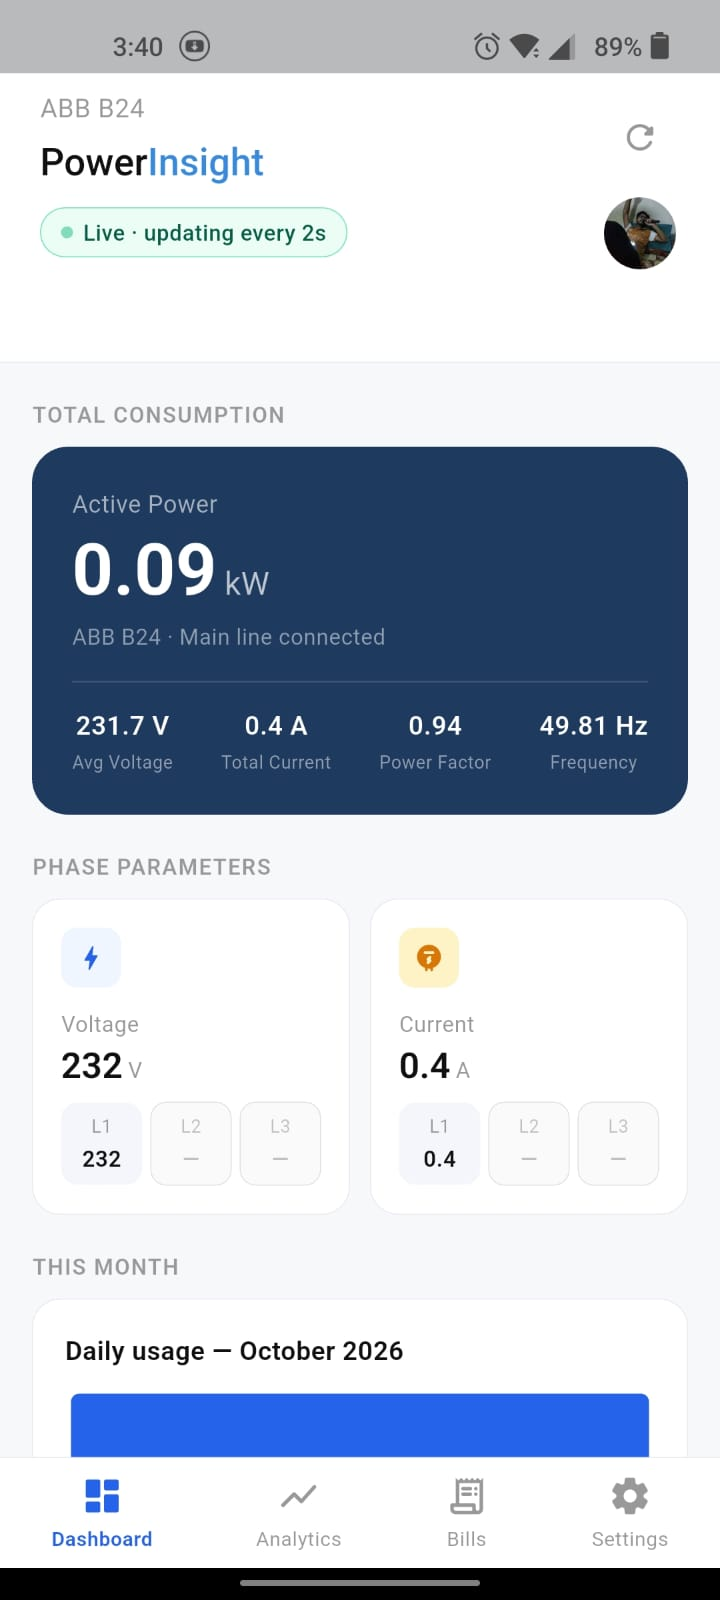
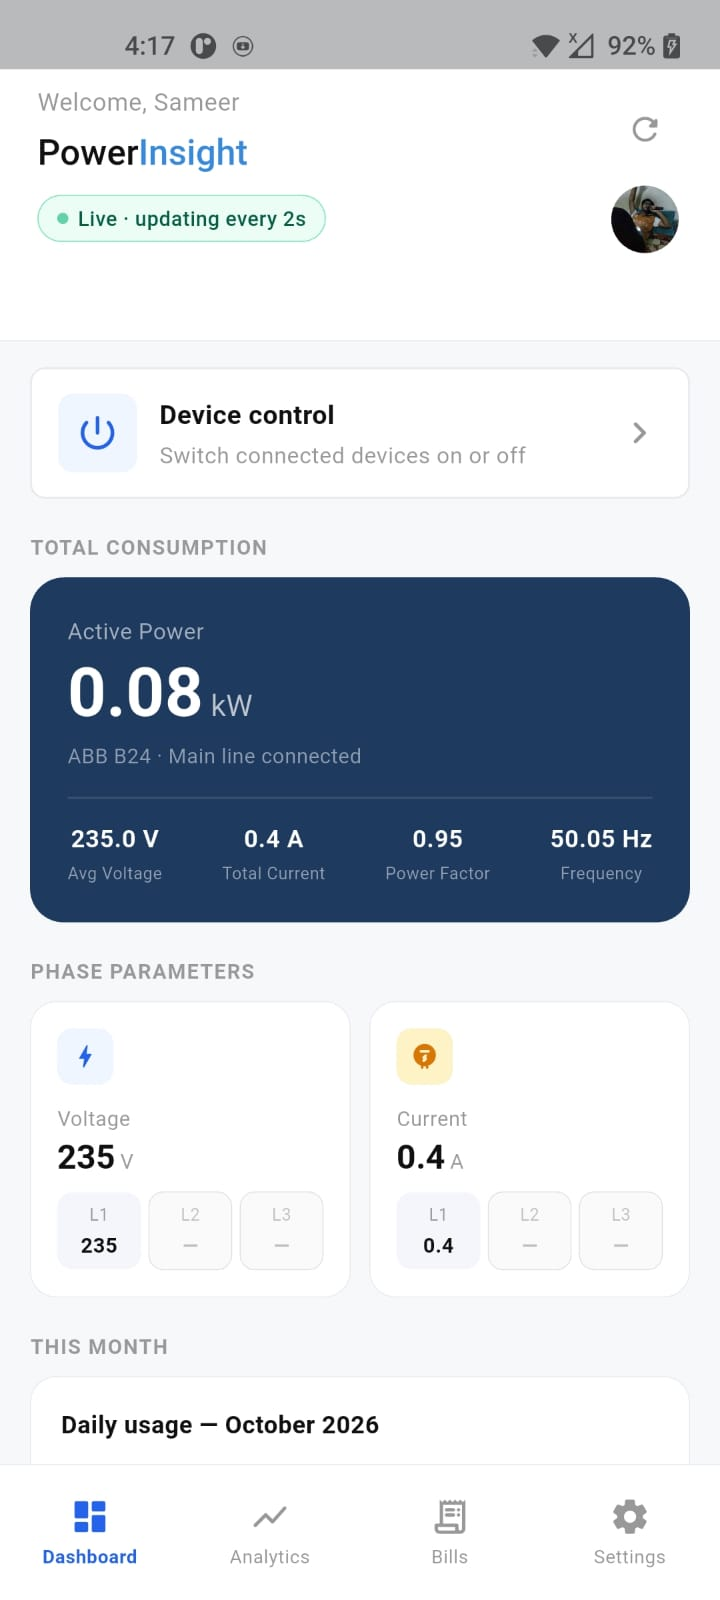
all_okay_done

diff --git a/test/widget_test.dart b/test/widget_test.dart
@@ -144,6 +144,24 @@ void main() {
     expect(hourly[2].kwh, closeTo(0.05, 0.0001));
   });
 
+  test('Hourly parser ignores a one-reading cumulative drop glitch', () {
+    final hourly = FirebaseHistoryService.parseHourlyUsage({
+      '2026-10-01': {'h1': 0.23},
+      '2026-10-02': {'h0': 0.82, 'h1': 0.85},
+      '2026-10-03': {'h0': 1.29, 'h1': 0.0, 'h2': 1.33},
+    });
+
+    expect(hourly.length, 4);
+    expect(hourly[0].hourStart, DateTime(2026, 10, 2, 0));
+    expect(hourly[0].kwh, closeTo(0.59, 0.0001));
+    expect(hourly[1].hourStart, DateTime(2026, 10, 2, 1));
+    expect(hourly[1].kwh, closeTo(0.03, 0.0001));
+    expect(hourly[2].hourStart, DateTime(2026, 10, 3, 0));
+    expect(hourly[2].kwh, closeTo(0.44, 0.0001));
+    expect(hourly[3].hourStart, DateTime(2026, 10, 3, 2));
+    expect(hourly[3].kwh, closeTo(0.04, 0.0001));
+  });
+
   // ── K-Electric: asal bills (Sanc Load 4 kW, tariff A1-R) ────────────────
   // fcaUnits = bill par FCA line ke saamne likhe units (2 mahine pehle ke).
   group('KE calculator matches real K-Electric bills', () {

diff --git a/lib/services/firebase_history_service.dart b/lib/services/firebase_history_service.dart
@@ -133,11 +133,21 @@ class FirebaseHistoryService {
     // Cumulative → per-hour kWh (meter reset ho to delta 0 rakhte hain).
     entries.sort((a, b) => a.key.compareTo(b.key));
     final hourly = <HourlyUsage>[];
+    var previous = entries.first;
     for (int i = 1; i < entries.length; i++) {
-      final delta = entries[i].value - entries[i - 1].value;
+      final current = entries[i];
+      final isRecoveredDrop =
+          i + 1 < entries.length &&
+          current.value < previous.value &&
+          entries[i + 1].value >= previous.value;
+      // A one-sample dip that immediately recovers is a bad reading, not a reset.
+      if (isRecoveredDrop) continue;
+
+      final delta = current.value - previous.value;
       hourly.add(
-        HourlyUsage(hourStart: entries[i].key, kwh: delta < 0 ? 0.0 : delta),
+        HourlyUsage(hourStart: current.key, kwh: delta < 0 ? 0.0 : delta),
       );
+      previous = current;
     }
     return hourly;
   }

diff --git a/lib/controllers/analytics_controller.dart b/lib/controllers/analytics_controller.dart
@@ -1,3 +1,5 @@
+import 'dart:math' as math;
+
 import 'package:get/get.dart';
 import '../models/analytics_model.dart';
 import '../models/ke_tariff_model.dart';
@@ -339,12 +341,13 @@ class AnalyticsController extends GetxController {
     for (final slot in slots) {
       for (final c in columnKeys()) {
         final avg = cellAvgs['$c-$slot'] ?? 0.0;
+        final relativeUsage = maxCell > 0 ? avg / maxCell : 0.0;
         heatmap.add(
           HeatmapCell(
             hour: slot,
             day: _heatmapColumnLabel(c),
             dayKey: c,
-            intensity: (avg / maxCell).clamp(0.0, 1.0),
+            intensity: math.sqrt(relativeUsage).clamp(0.0, 1.0),
           ),
         );
       }

diff --git a/README.md b/README.md
@@ -1,150 +1,186 @@
-# PowerInsight ⚡
+# PowerInsight
 
-IoT-based real-time energy monitoring system for homes — **ESP32 + ABB B24 energy meter + Flutter**.
+**PowerInsight** is an IoT-based energy monitoring and appliance-control system built with an ESP32, an ABB B24 energy meter, Firebase Realtime Database, and a Flutter mobile app.
 
-PowerInsight reads live electricity data (voltage, current, power, power factor, energy) from a Modbus RTU energy meter via ESP32, publishes it to Firebase Realtime Database, and presents it in a clean Flutter app with **daily / weekly / monthly analytics**, usage trend graphs, peak-time heatmaps, and **real K-Electric bill estimation** — all in **English & Urdu (اردو)**.
+The meter sends live electrical readings to Firebase, where the app presents them as a dashboard, usage analytics, and estimated K-Electric bills. A separate relay-control path lets users send appliance commands from the app and view the state reported by the ESP32.
 
----
+## Highlights
 
-## ✨ Features
+- **Live energy monitoring:** voltage, current, active power, frequency, power factor, and cumulative energy.
+- **Day, week, and month analytics:** summary cards, consumption and cost charts, usage trends, and peak-usage heatmaps.
+- **K-Electric bill estimates:** configurable tariff profile and an itemized estimate including applicable adjustments, taxes, and fees.
+- **Appliance controls:** Firebase-backed controls for a bulb, fan, fridge, and spare relay, with requested and ESP32-reported states.
+- **Multiple meters and accounts:** sign-in, meter assignment, customer administration, and meter online status.
+- **English and Urdu:** switch the app language in-session; light and dark themes are supported.
+- **Profile and preferences:** account details, profile photo, and app settings.
 
-| Feature | Description |
+## System overview
+
+```text
+ ABB B24 energy meter
+          │ RS-485 / Modbus RTU
+          ▼
+       ESP32 ────────────────┐
+          │                 │
+          │ meter readings  │ relay commands / status
+          ▼                 ▲
+   Firebase Realtime Database
+          │                 ▲
+          │ REST API        │ REST API
+          ▼                 │
+       Flutter app ─────────┘
+       monitoring, analytics,
+       billing, and controls
+```
+
+Meter readings and device-control commands are separate data flows. For device control, the app writes the requested state to Firebase. The ESP32 polls for commands, drives its configured relay, and writes the applied state back for the app to display.
+
+## Application screens
+
+| Screen | Overview |
 |---|---|
-| 🔴 **Real-time monitoring** | Live voltage, current, power (W), frequency, power factor — refreshes every ~3s |
-| 📈 **Power trend graph** | Day view = 24-hour curve (0h–24h axis, fills hour-by-hour), Week = 7 day slots, Month = week slots (W1–W5) |
-| 🔥 **Peak hours heatmap** | Time slots (6 AM–9 PM) × Day/Week/Month — see exactly *when* you consume the most |
-| 💰 **K-Electric bill estimate** | Real KE tariff slabs (A1-R), FCA, quarterly adjustment, electricity duty, GST, MUCT, TV licence — matches actual bills |
-| 📊 **Monthly comparison** | Bill vs previous months + 5-month average |
-| 🌐 **Bilingual UI** | Full English + Urdu translation, switchable in-session |
-| 👥 **Admin panel** | Add customers, assign meters, manage users |
-| 🤖 **ML prediction** | Next-month usage forecast |
-| 🟢 **Meter online status** | Clock-skew-immune liveness detection from reading timestamps |
+| Login | Account sign-in |
+| Meter list | Assigned meters and their availability |
+| Dashboard | Live meter readings, status, and navigation |
+| Device control | Relay controls and device status |
+| Analytics — day | Hourly usage trend and daily heatmap |
+| Analytics — week | Daily usage trend and weekly heatmap |
+| Analytics — month | Monthly usage trend and peak-week heatmap |
+| Bills | Estimated bill and month comparison |
+| Tariff settings | Tariff profile and bill-adjustment inputs |
+| Settings | Language, theme, account, and app preferences |
+| Profile | User details and profile photo |
+| Admin panel | Customer and meter administration |
 
----
-
-## 🏗 Architecture
-
-```
-┌─────────────┐   Modbus RTU    ┌──────────┐    HTTPS PUT    ┌─────────────────┐
-│  ABB B24    │ ◄──────────────►│  ESP32   │ ───────────────►│  Firebase RTDB  │
-│ Energy Meter│    RS485        │ (WiFi)   │   every 2s      │  meters/meter1  │
-└─────────────┘                 └──────────┘                 └────────┬────────┘
-                                                                      │
-                                                            ┌─────────▼────────┐
-                                                            │   Flutter App    │
-                                                            │  (GetX, REST)    │
-                                                            │  Android / iOS   │
-                                                            └──────────────────┘
-```
-
-**Data flow:** Meter → (RS485/Modbus) → ESP32 → (WiFi/HTTPS) → Firebase → (REST) → App
-
----
-
-## 🔌 Hardware
-
-| Component | Details |
-|---|---|
-| **Energy meter** | ABB B24 (Modbus RTU slave, ID `10`, 19200 baud, 8E1) |
-| **Controller** | ESP32 (WiFi + dual-core) |
-| **RS485 transceiver** | DE/RE on GPIO 4, RX2 = GPIO 16, TX2 = GPIO 17 |
-| **Registers used** | Voltage `0x5B00`, Current `0x5B0C`, Power `0x5B14`, Frequency `0x5B2C`, PF `0x5B3A`, Energy `0x552C` |
-
-NTP time sync (`pool.ntp.org`, UTC+5) is used for date/hour keys.
-
----
-
-## ☁ Firebase Realtime Database structure
-
-```
-meters/
-└── meter1/
-    ├── name                      "ABB B24"
-    ├── latest/                   ← live reading (every 2s)
-    │   ├── voltage, current, power, frequency, powerFactor, energy
-    │   └── timestamp             ← server timestamp (.sv)
-    ├── history/                  ← daily cumulative kWh (every 60s)
-    │   └── 2026-10-01: 0.24
-    └── hourly/                   ← hourly cumulative kWh (hour change)
-        └── 2026-10-01/
-            ├── h0: 0.22
-            └── h1: 0.23
-```
-
-- **`history`** → daily consumption deltas → Week trend, Month trend, bill estimates
-- **`hourly`** → hourly deltas → Day power trend (24h) + peak-hours heatmap
-- Cumulative values are stored; the **app computes deltas** (meter resets handled → treated as 0)
-
----
-
-## 📱 App screens
-
-| Screen | What it shows |
-|---|---|
-| **Splash / Login** | Email validation, secure session |
-| **Meters list** | All your meters with online/offline status |
-| **Dashboard** | Live power hero card, voltage/current/PF/frequency tiles |
-| **Analytics** | Day/Week/Month tabs → summary KPIs, power trend, peak heatmap, consumption & cost charts |
-| **Bills** | K-Electric style invoice breakdown, month comparison, tariff settings (phase, FCA, TV count) |
-| **Profile / Settings** | User info, language switch, tariff configuration |
-| **Admin panel** | Customer + meter management |
-
----
-
-## 📱 Screenshots
+## Screenshots
 
 | | |
 |---|---|
-| ![Splash](screenshots/splash.jpeg) | ![Login](screenshots/login.jpeg) |
-| *Splash screen* | *Login* |
-| ![Meters list](screenshots/meters_list.jpeg) | ![Dashboard](screenshots/dashboard.jpeg) |
-| *Meters with live status* | *Real-time dashboard* |
-| ![Analytics Day](screenshots/analytics_day.jpeg) | ![Analytics Week](screenshots/analytics_week.jpeg) |
-| *Analytics — Day (24h trend)* | *Analytics — Week (peak days)* |
-| ![Analytics Month](screenshots/analytics_month.jpeg) | ![Bills](screenshots/bills.jpeg) |
-| *Analytics — Month (peak weeks)* | *K-Electric bill estimate* |
-| ![Tariff settings](screenshots/tariff.jpeg) | ![Urdu setting](screenshots/setting.jpeg) |
-| *Tariff configuration* | *Settings — اردو* |
-| ![Admin](screenshots/admin.jpeg) | ![Profile](screenshots/profile.jpeg) |
-| *Admin panel* | *Profile* |
+| ![Splash screen](screenshots/splash.jpeg) | ![Login screen](screenshots/login.jpeg) |
+| *Splash* | *Login* |
+| ![Meter list](screenshots/meters_list.jpeg) | ![Dashboard](screenshots/dashboard.jpeg) |
+| *Assigned meters* | *Live dashboard* |
+| ![Device controls](screenshots/device_control.jpeg) | ![Day analytics](screenshots/analytics_day.jpeg) |
+| *Relay controls and connection status* | *Hourly trend and peak hours* |
+| ![Weekly analytics](screenshots/analytics_week.jpeg) | ![Monthly analytics](screenshots/analytics_month.jpeg) |
+| *Daily comparison and peak days* | *Monthly comparison and peak weeks* |
+| ![Bill estimate](screenshots/bills.jpeg) | ![Tariff settings](screenshots/tariff.jpeg) |
+| *Estimated K-Electric bill* | *Tariff configuration* |
+| ![Settings in Urdu](screenshots/setting.jpeg) | ![Profile](screenshots/profile.jpeg) |
+| *Settings in Urdu* | *User profile* |
+| ![Admin panel](screenshots/admin.jpeg) | |
+| *Customer and meter administration* | |
 
----
+## Hardware
 
-## 🚀 Getting started
+| Component | Configuration |
+|---|---|
+| Energy meter | ABB B24, Modbus RTU slave ID `10`, `19200` baud, `8E1` |
+| Controller | ESP32 with Wi-Fi |
+| RS-485 direction control | GPIO `4` |
+| ESP32 serial pins | RX2 GPIO `16`, TX2 GPIO `17` |
+| Meter registers | Voltage `0x5B00`, current `0x5B0C`, power `0x5B14`, frequency `0x5B2C`, power factor `0x5B3A`, energy `0x552C` |
+| Relay outputs | Bulb GPIO `25`, fan GPIO `26`, fridge GPIO `27`, spare GPIO `32` |
 
-### Prerequisites
-- Flutter SDK (tested with Dart ^3.10)
-- Android/iOS device or emulator
-- Arduino IDE + ESP32 board support (for the meter firmware)
+The firmware uses NTP time synchronization (UTC+5) to label daily and hourly history records. Relay outputs are configured as active-low. The fridge relay includes a five-minute minimum off-time before it can be switched on again.
 
-### Run the app
+> **Device power figures:** the control screen reports that individual appliance power is not measured. The firmware's relay status payload includes configured nominal estimates, not readings from per-appliance power sensors; the ABB meter measures the installation's aggregate consumption.
+
+## Firebase data model
+
+```text
+meters/{meterId}/
+├── name
+├── latest/
+│   ├── voltage
+│   ├── current
+│   ├── power
+│   ├── frequency
+│   ├── powerFactor
+│   ├── energy
+│   └── timestamp
+├── history/{YYYY-MM-DD}                 # cumulative daily energy
+└── hourly/{YYYY-MM-DD}/h{hour}          # cumulative hourly energy
+
+devices/{deviceId}/
+├── state                                  # requested relay state
+├── applied                                # ESP32-reported relay state
+├── power                                  # configured estimate, not metered
+└── lastUpdate
+```
+
+- `latest` powers the live dashboard.
+- `history` and `hourly` contain cumulative meter readings. The app derives usage deltas for analytics and estimates.
+- `devices/{deviceId}/state` carries the app's requested state. The ESP32 updates `applied` after handling the command.
+- The control page polls Firebase for status every two seconds; firmware polls for commands every 500 ms.
+
+## Project structure
+
+```text
+lib/
+├── bindings/       # GetX dependency bindings
+├── controllers/    # Application state and business logic
+├── models/         # Meter, analytics, billing, and device models
+├── routes/         # Application navigation
+├── services/       # Firebase REST and tariff services
+├── themes/         # Light and dark themes
+├── translations/   # English and Urdu strings
+├── views/          # Application screens
+└── widgets/        # Reusable UI components
+
+sketch_sep26a/
+└── sketch_sep26a.ino
+
+screenshots/
+```
+
+## Getting started
+
+### Requirements
+
+- Flutter SDK with Dart `^3.10.9`
+- Android or iOS device/emulator for the mobile application
+- For hardware deployment: ESP32, ABB B24 meter, compatible RS-485 transceiver, and a properly rated relay module
+- Arduino IDE and the `ModbusMaster` library to build the ESP32 firmware
+
+### Run the Flutter app
+
 ```bash
-git clone <repo-url> && cd finalyearproject
+git clone <repository-url>
+cd finalyearproject
 flutter pub get
 flutter run
 ```
 
-> macOS with custom SDK path: `export PATH="$HOME/development/flutter/bin:$PATH"` first.
+If Flutter is installed outside `PATH`, add its `bin` directory first:
 
-### Tests
 ```bash
-flutter test        # 16 tests: history/hourly parsing, KE bill calculator, widgets
-flutter analyze     # static analysis — clean
+export PATH="$HOME/development/flutter/bin:$PATH"
 ```
 
-### ESP32 firmware
-1. Arduino IDE → install **ModbusMaster** library
-2. Update `WIFI_SSID`, `WIFI_PASSWORD`, `FIREBASE_DB_URL` in the sketch
-3. Flash to ESP32 — it auto-connects, syncs NTP time, and starts publishing
+### Run checks
 
----
+```bash
+flutter test
+flutter analyze
+```
 
-## 🧾 Bill estimation accuracy
+### Build and flash the ESP32 firmware
 
-The KE calculator was validated against **real K-Electric bills** (Jun–Sep 2026) and matches to the paisa — including slab changes at 200/201 and 300 units, `Rs 300/kW` fixed charges (Sep 2026 tariff), FCA from older bills, PHL surcharge, 18% sales tax, MUCT, and TV licence fee. See `lib/models/ke_tariff_model.dart` and the test suite.
+1. Open `sketch_sep26a/sketch_sep26a.ino` in Arduino IDE.
+2. Install the **ModbusMaster** library and select the appropriate ESP32 board.
+3. Configure Wi-Fi, Firebase, meter, RS-485, and relay settings for your own installation.
+4. Verify the meter register map, relay polarity, GPIO assignments, and Firebase access rules before deployment.
+5. Flash the firmware and confirm meter readings and device status in Firebase before using the app controls.
 
----
+Never commit Wi-Fi passwords, service credentials, or other private configuration values to a public repository. Use appropriately restricted Firebase Database Rules for a deployment; do not rely on permissive public database access.
 
-## 📄 License
+> **Electrical safety:** mains-voltage wiring and relay installation should be designed and checked by a qualified person. Disconnect power before wiring, use correctly rated and enclosed components, and follow local electrical codes.
 
-Academic project — Final Year Project, 2026.
+## Bill estimates
+
+The tariff calculator is covered by regression tests based on K-Electric bill examples included in the test suite. Estimates depend on the configured tariff profile and the available consumption history; they are informational and may differ from the final bill.
+
+## License
+
+Academic Final Year Project, 2026. No separate open-source license is currently specified.
